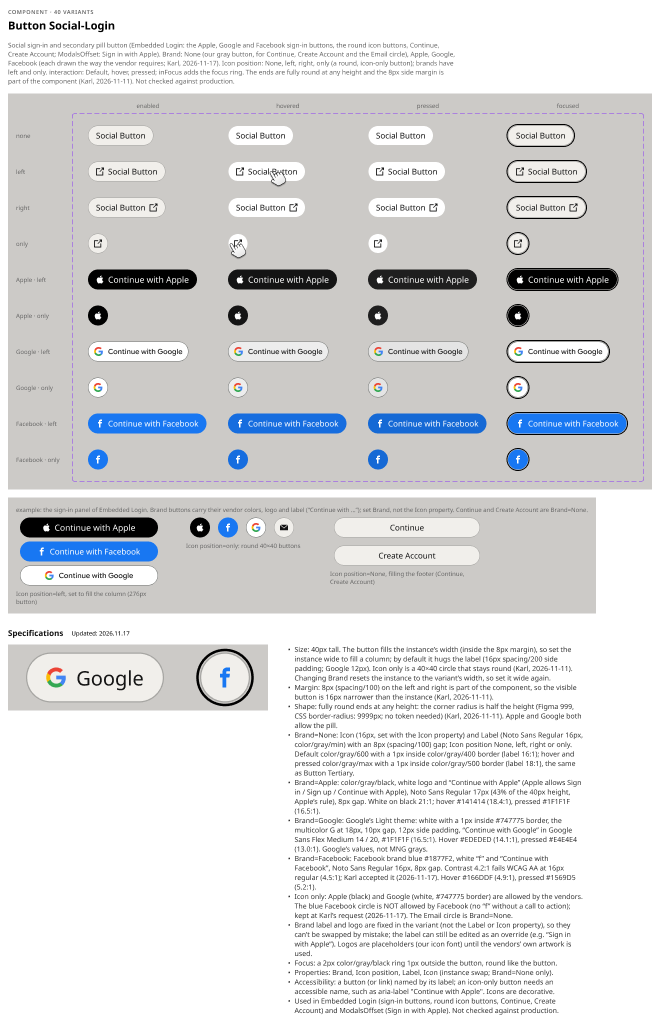
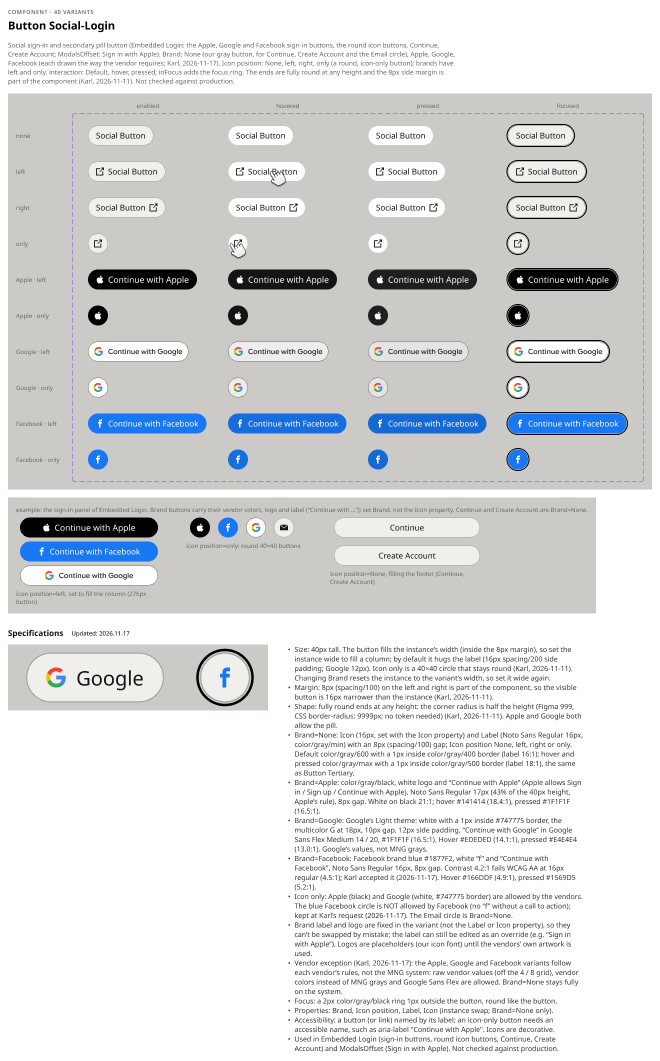
Button Social-Login: spec and Claude design system carry the vendor exception
Karl, 2026-11-17: re-exported Button Social-Login so its spec states the vendor
sign-in button exception (CLAUDE.md, Design vs. production), with the updated
Figma spec list and documentation preview; ButtonSocialLogin notes in the Claude
design system say the same. Tokens unchanged.

Claude-Session: https://claude.ai/code/session_012ti5sSDwBnEzwWbj75vBQa

Changed region(s): [[0.0, 0.0, 1.0, 1.0], [0.0303, 0.2727, 0.0606, 0.3333]]

diff --git a/components/core/button-social-login/button-social-login.md b/components/core/button-social-login/button-social-login.md
@@ -192,6 +192,7 @@ No Breakpoint property: one size at every width.
 - **Brand=Google:** Google's Light theme: white with a 1px inside #747775 border, the multicolor G at 18px, 10px gap, 12px side padding, "Continue with Google" in Google Sans Flex Medium 14 / 20, #1F1F1F (16.5:1). Hover #EDEDED (14.1:1), pressed #E4E4E4 (13.0:1). These are Google's required values, not MNG tokens.
 - **Brand=Facebook:** Facebook brand blue #1877F2, white "f" and "Continue with Facebook", Noto Sans Regular 16px, 8px gap. **White on #1877F2 is 4.2:1 and fails WCAG AA at 16px regular (4.5:1); Karl accepted it (2026-11-17)** to keep Facebook's brand blue. Hover #166DDF (4.9:1), pressed #1569D5 (5.2:1).
 - **Icon only:** Apple (black) and Google (white, #747775 border) are allowed by the vendors. **The blue Facebook circle is not allowed by Facebook** (no "f" without a call to action); kept at Karl's request (2026-11-17).
+- **Vendor exception** (Karl, 2026-11-17; CLAUDE.md, Design vs. production): the Apple, Google and Facebook variants follow each vendor's branding rules, not the MNG system. Raw vendor values are allowed where the vendor sets them (Google's 12px padding, 10px gap, #747775 border, #1F1F1F text and hover / pressed fills; Apple's 17px label; Facebook blue #1877F2 and its hover / pressed), off the 4 / 8 grid and instead of MNG grays, and so is the vendor font (Google Sans Flex). Tokens only where a vendor value matches one exactly (`color/gray/black` for Apple). The unbound values and the Google Sans Flex font listed under Known issues are this exception, not defects. Brand=None stays fully on the system.
 - **Brand label and logo are fixed in the variant** (not bound to the `Label` or `Icon` property), so they can't be swapped by mistake; the label can still be overridden (ModalsOffset: "Sign in with Apple"). Logos are placeholders from our icon font until the vendors' own artwork is used.
 - **Focus ring:** a `Focus Ring` frame 1px outside the button, 2px `color/gray/black`, round like the button. In CSS: `outline: 2px solid var(--mng-color-gray-black); outline-offset: 1px;`.
 - **Accessibility:** a button (or link) named by its label; an icon-only button needs an accessible name (e.g. `aria-label="Continue with Apple"`). Icons and logos are decorative.

diff --git a/scripts/claude-design-system/src/components/ButtonSocialLogin/notes.md b/scripts/claude-design-system/src/components/ButtonSocialLogin/notes.md
@@ -1,5 +1,6 @@
 - Rebuilt in place on 2026-11-11 (Karl): the Embedded Login file uses it, so its label, icon and button layers were kept and only their values changed; Embedded Login's instances keep their labels and icons. New: Icon position=only (round, icon only), pressed and focused for every icon position, the Label and Icon properties.
 - **Brand** (Karl, 2026-11-17): None, Apple, Google, Facebook. The on-brand versions (first a separate proposal set, Button Social-Login Vendor) were merged into this component, so Embedded Login stays linked. Brands have Icon position left and only; the logo and the "Continue with ..." label are fixed in the variant (the label can be overridden, e.g. ModalsOffset's "Sign in with Apple"). Logos are placeholders from our icon font until the vendors' artwork is used.
+- **Vendor exception** (Karl, 2026-11-17; CLAUDE.md, Design vs. production): the Apple, Google and Facebook variants follow each vendor's branding rules, not the MNG system. Raw vendor values (Google's 12px padding and 10px gap, off the 4 / 8 grid; vendor colors instead of MNG grays; Apple's 17px label) and the vendor font (Google Sans Flex) are allowed; tokens only where a vendor value matches one exactly. Brand=None stays fully on the system.
 - Apple: black, white logo and text, Noto Sans Regular 17px (43% of the height, Apple's rule). 21:1; hover gray/min 18.4:1, pressed #1F1F1F 16.5:1.
 - Google: Light theme, white with a 1px #747775 border, the 18px multicolor G, 12px padding, 10px gap, Google Sans Flex Medium 14 / 20 in #1F1F1F (16.5:1; hover #EDEDED 14.1:1, pressed #E4E4E4 13.0:1). Google's values, not MNG tokens; the page falls back to Roboto / Arial if Google Sans Flex doesn't load.
 - Facebook: brand blue #1877F2 with white text and "f". **4.2:1, fails WCAG AA at 16px regular; Karl accepted it (2026-11-17).** Hover #166DDF 4.9:1, pressed #1569D5 5.2:1. The blue Facebook circle is not allowed by Facebook (no "f" without a call to action); kept at Karl's request. The black-and-white Facebook option was dropped.
